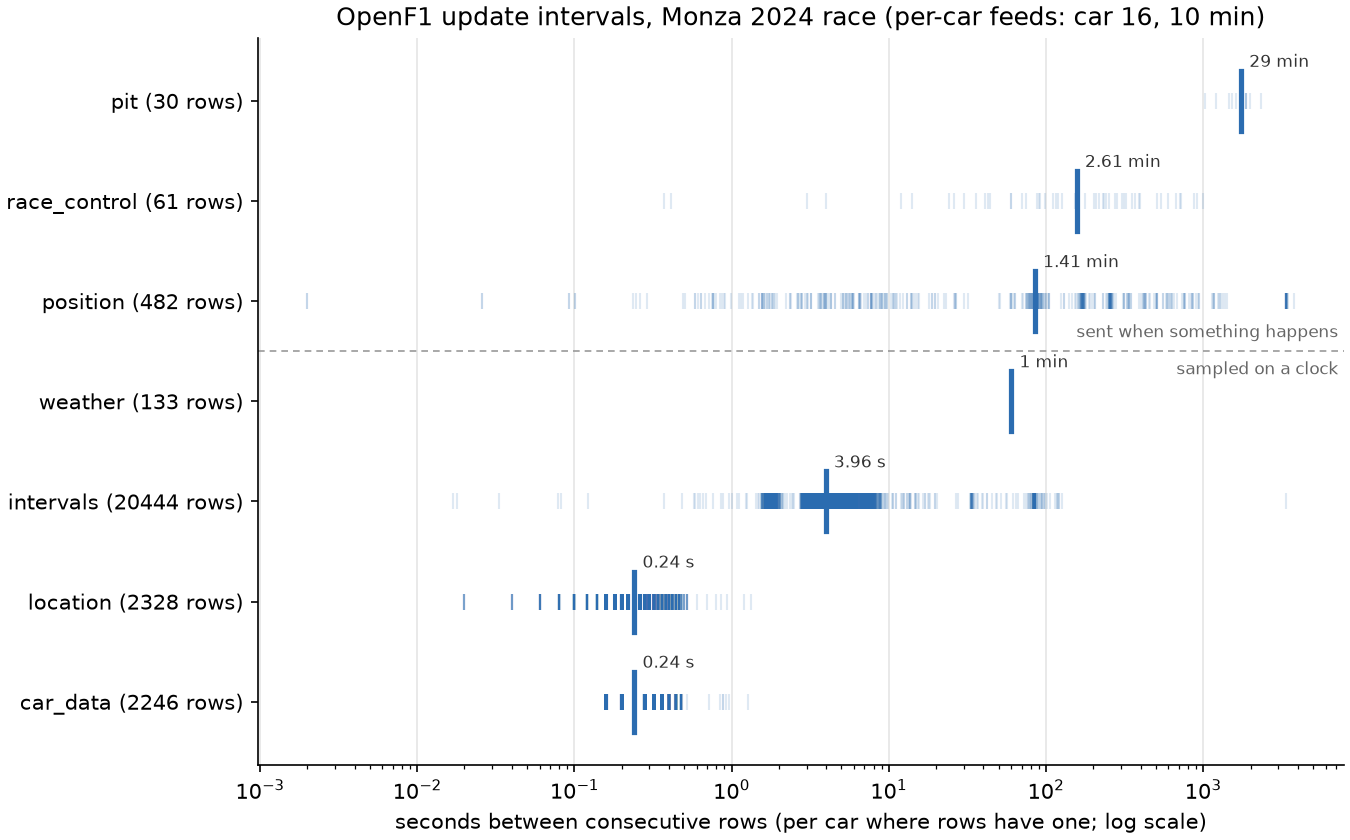
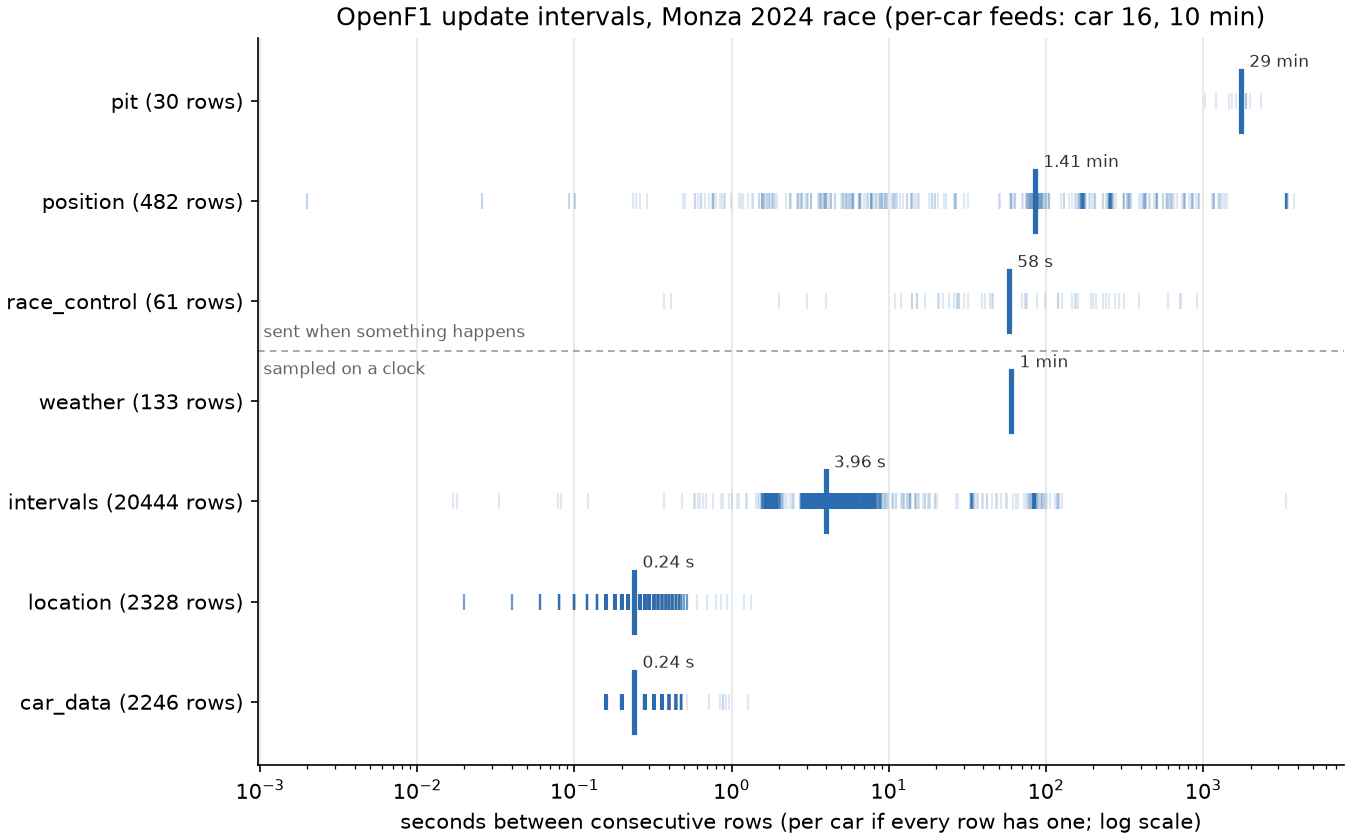
P0.8: review fixes (whole-feed gaps for mixed feeds, null dates, zero gaps, drop nulls)

diff --git a/scripts/figures/openf1.py b/scripts/figures/openf1.py
@@ -5,7 +5,7 @@ Run from the repo root: uv run python scripts/figures/openf1.py
 
 import time
 from collections.abc import Sequence
-from datetime import timedelta
+from datetime import UTC, timedelta
 from pathlib import Path
 
 from matplotlib.figure import Figure
@@ -28,7 +28,7 @@ EVENT_FEEDS = frozenset({"position", "pit", "race_control"})
 
 
 class Paced:
-    """Waits between requests: OpenF1 answers a 4th request within a second with HTTP 429.
+    """Waits between requests: OpenF1 allows 3 a second, and answered the 5th in 1.3 s with 429.
 
     Sits under the cache, so cached runs don't wait. The real limiter is P2.8.
     """
@@ -51,7 +51,7 @@ def fetch(client: OpenF1Client) -> tuple[Session, dict[str, list[Row]]]:
     session = sessions[0]
     rows = {name: client.query(name, {"session_key": session.key}) for name in SESSION_ENDPOINTS}
     # per-car feeds are big (~4 Hz): one car, a window that starts after the race start
-    start = session.start + timedelta(minutes=30)
+    start = (session.start + timedelta(minutes=30)).astimezone(UTC)
     window: Params = {
         "session_key": session.key,
         "driver_number": CAR,
@@ -71,7 +71,7 @@ def table(profile: EndpointProfile) -> str:
     lines = [head, "", "| Field | Types | Example |", "|---|---|---|"]
     for f in profile.fields:
         types = ", ".join(f"{name} {count}" for name, count in sorted(f.types.items()))
-        lines.append(f"| `{f.name}` | {types} | `{f.example!r}` |"[:200])
+        lines.append(f"| `{f.name}` | {types} | `{repr(f.example)[:60]}` |")
     return "\n".join(lines)
 
 
@@ -88,9 +88,12 @@ def rates_figure(profiles: Sequence[EndpointProfile]) -> Figure:
     fig = Figure(figsize=(9, 0.6 * len(timed) + 1.4), layout="constrained")
     ax = fig.subplots()
     for i, p in enumerate(timed):
-        # every gap as a faint tick, the median as a solid bar
-        ax.scatter(p.gaps, [i] * len(p.gaps), marker="|", s=60, color=INK, alpha=0.15, lw=1)
+        # every gap as a faint tick, the median as a solid bar; a log axis can't show 0
+        shown = [gap for gap in p.gaps if gap > 0]
+        ax.scatter(shown, [i] * len(shown), marker="|", s=60, color=INK, alpha=0.15, lw=1)
         median = p.median_gap or 0
+        if median <= 0:
+            continue
         ax.plot([median, median], [i - 0.3, i + 0.3], color=INK, lw=2.5)
         ax.annotate(
             duration(median),
@@ -110,18 +113,19 @@ def rates_figure(profiles: Sequence[EndpointProfile]) -> Figure:
     ):
         va = "top" if y < split else "bottom"
         ax.text(
-            0.995,
+            0.005,
             y,
             text,
             transform=ax.get_yaxis_transform(),
-            ha="right",
+            ha="left",
             va=va,
             fontsize=8,
             color="#666666",
         )
     ax.set_xscale("log")
-    ax.set_xlabel("seconds between consecutive rows (per car where rows have one; log scale)")
-    ax.set_title(f"OpenF1 update intervals, Monza 2024 race (per-car feeds: car {CAR}, 10 min)")
+    ax.set_xlabel("seconds between consecutive rows (per car if every row has one; log scale)")
+    window = duration(WINDOW.total_seconds())
+    ax.set_title(f"OpenF1 update intervals, Monza 2024 race (per-car feeds: car {CAR}, {window})")
     ax.spines[["top", "right"]].set_visible(False)
     ax.grid(axis="x", which="major", color="#e5e5e5", lw=0.8)
     ax.set_axisbelow(True)

diff --git a/src/pitwall/ingest/profile.py b/src/pitwall/ingest/profile.py
@@ -1,11 +1,11 @@
 """Profile raw OpenF1 rows: which fields an endpoint sends, how complete they are, how often."""
 
 import statistics
-from collections import Counter
+from collections import Counter, defaultdict
 from collections.abc import Iterable, Mapping, Sequence
 from dataclasses import dataclass
 from datetime import datetime
-from itertools import groupby, pairwise
+from itertools import pairwise
 from typing import Self
 
 from pitwall.errors import SchemaError
@@ -29,10 +29,6 @@ class FieldProfile:
     types: Mapping[str, int]  # JSON type -> number of rows; a missing key counts as "absent"
     example: object  # the first non-null value, None if every row is null or absent
 
-    @property
-    def nulls(self) -> int:
-        return self.types.get("null", 0) + self.types.get("absent", 0)
-
 
 @dataclass(frozen=True)
 class EndpointProfile:
@@ -48,15 +44,11 @@ class EndpointProfile:
     @classmethod
     def of(cls, endpoint: str, rows: Sequence[Row]) -> Self:
         names = sorted({name for row in rows for name in row})
-        try:
-            gaps = tuple(_gaps(rows))
-        except (TypeError, ValueError) as e:
-            raise SchemaError(f"{endpoint}: unreadable date: {e!r}") from e
         return cls(
             endpoint=endpoint,
             rows=len(rows),
             fields=tuple(_field(name, rows) for name in names),
-            gaps=gaps,
+            gaps=tuple(_gaps(endpoint, rows)),
         )
 
 
@@ -73,14 +65,27 @@ def _field(name: str, rows: Sequence[Row]) -> FieldProfile:
     return FieldProfile(name, dict(types), example)
 
 
-def _gaps(rows: Sequence[Row]) -> Iterable[float]:
-    """Per driver when rows carry one, else across the whole feed (weather, race control)."""
-    timed = [
-        (row.get("driver_number"), datetime.fromisoformat(row["date"]))
-        for row in rows
-        if "date" in row
-    ]
-    timed.sort(key=lambda pair: (pair[0] is None, pair[0] or 0, pair[1]))
-    for _, group in groupby(timed, key=lambda pair: pair[0]):
-        times = [t for _, t in group]
+def _gaps(endpoint: str, rows: Sequence[Row]) -> Iterable[float]:
+    """Per driver when every dated row has one, else across the whole feed.
+
+    race_control mixes car messages with track-wide ones: its rate is the feed's, not a car's.
+    """
+    dated = [row for row in rows if row.get("date") is not None]
+    per_driver = all(row.get("driver_number") is not None for row in dated)
+    streams: defaultdict[str, list[datetime]] = defaultdict(list)
+    for row in dated:
+        # repr: any JSON value is a valid key, and 16 and "16" stay apart
+        key = repr(row["driver_number"]) if per_driver else ""
+        streams[key].append(_time(endpoint, row["date"]))
+    for times in streams.values():
+        times.sort()
         yield from ((b - a).total_seconds() for a, b in pairwise(times))
+
+
+def _time(endpoint: str, value: object) -> datetime:
+    if not isinstance(value, str):
+        raise SchemaError(f"{endpoint}: unreadable date: {value!r}")
+    try:
+        return datetime.fromisoformat(value)
+    except ValueError as e:
+        raise SchemaError(f"{endpoint}: unreadable date: {value!r}") from e

diff --git a/tests/ingest/test_profile.py b/tests/ingest/test_profile.py
@@ -4,7 +4,7 @@ from pitwall.errors import SchemaError
 from pitwall.ingest.profile import EndpointProfile, json_type
 
 
-def row(date: str, driver: int | None = 16, **fields: object) -> dict[str, object]:
+def row(date: str, driver: object = 16, **fields: object) -> dict[str, object]:
     base: dict[str, object] = {"date": f"2024-09-01T13:00:{date}+00:00"}
     if driver is not None:
         base["driver_number"] = driver
@@ -15,7 +15,6 @@ def test_fields_counted_by_json_type() -> None:
     rows = [row("00", gap=1.5), row("04", gap="+1 LAP"), row("08", gap=None), row("12")]
     gap = {f.name: f for f in EndpointProfile.of("intervals", rows).fields}["gap"]
     assert gap.types == {"float": 1, "string": 1, "null": 1, "absent": 1}
-    assert gap.nulls == 2
     assert gap.example == 1.5
 
 
@@ -53,6 +52,23 @@ def test_rows_without_dates_have_no_gaps() -> None:
 def test_empty_endpoint() -> None:
     profile = EndpointProfile.of("pit", [])
     assert (profile.rows, profile.fields, profile.median_gap) == (0, (), None)
+
+
+def test_feed_with_some_driverless_rows_is_one_stream() -> None:
+    # race control: car messages and track-wide ones, one feed
+    rows = [row("00", None), row("20", 16), row("30", None), row("50", 16)]
+    assert EndpointProfile.of("race_control", rows).gaps == (20.0, 10.0, 20.0)
+
+
+def test_null_date_is_skipped_like_a_missing_one() -> None:
+    null_date: dict[str, object] = {"date": None, "driver_number": 16}
+    rows = [row("00"), null_date, row("10")]
+    assert EndpointProfile.of("pit", rows).gaps == (10.0,)
+
+
+def test_driver_numbers_of_mixed_types_are_separate_streams() -> None:
+    rows = [row("00", 16), row("05", "16"), row("10", 16), row("20", "16")]
+    assert sorted(EndpointProfile.of("position", rows).gaps) == [10.0, 15.0]
 
 
 @pytest.mark.parametrize("date", ["yesterday", 1725195600])

diff --git a/docs/design/openf1-data.md b/docs/design/openf1-data.md
@@ -41,7 +41,8 @@ flowchart LR
 
 ![Seconds between consecutive rows for each endpoint, on a log scale](../figures/openf1_rates.png)
 
-The gaps are measured per car, wherever rows carry a `driver_number`.
+The gaps are measured per car when every row carries a `driver_number`, otherwise across the
+whole feed (`weather`, and `race_control`, which mixes car messages with track-wide ones).
 
 | Endpoint | Rows (race) | Median gap | Kind | Notes |
 |---|---|---|---|---|
@@ -50,7 +51,7 @@ The gaps are measured per car, wherever rows carry a `driver_number`.
 | `intervals` | 20,444 | 3.96 s | clock | "every 4 seconds"; races only |
 | `weather` | 133 | 60 s | clock | one feed for the session, no `driver_number` |
 | `position` | 482 | 85 s | event | 20 rows at 12:07:46 (the grid), then a row per change |
-| `race_control` | 61 | 2.6 min | event | messages, flags, DRS on/off |
+| `race_control` | 61 | 58 s | event | whole feed; messages, flags, DRS on/off; two messages share one instant |
 | `pit` | 30 | 29 min | event | one row per stop; the gap is between two stops of one car |
 | `stints` | 50 | – | event | no `date`: stints are keyed by lap numbers |
 
@@ -156,9 +157,15 @@ flowchart LR
 - **`EndpointProfile` works on raw rows**, before any typed model, because its job is to find
   out what the rows look like. It counts each field's JSON types (`null` and `absent` are
   different: a key that's missing is not a key that's null).
-- **Gaps are per driver** when rows have a `driver_number`, otherwise across the whole feed.
-  Mixing drivers would make `location` look like 80 Hz.
-- **An unreadable `date` is a `SchemaError`**: it's the world sending bad data, not a caller bug.
+- **Gaps are per driver** when every dated row has a `driver_number`, otherwise across the
+  whole feed. Mixing drivers would make `location` look like 80 Hz; splitting `race_control`
+  by car would measure "messages about one car", not how often the feed updates.
+- **A null `date` is skipped like a missing one.** A `date` that isn't an ISO 8601 string is a
+  `SchemaError`: it's the world sending bad data, not a caller bug.
+- **Zero gaps** (two rows at the same instant) count towards the median but can't be drawn on
+  the log axis, so the figure leaves them out.
+- **Cost:** one pass per field, about 0.1 s for the 20,444 `intervals` rows. Fine for a survey
+  script; a single-pass version waits until something calls it on a hot path.
 - **The script is glue**, type-checked but not unit-tested, like `scripts/figures/track.py`.
   `EndpointProfile` is the part with logic, and it is tested (100%).
 
